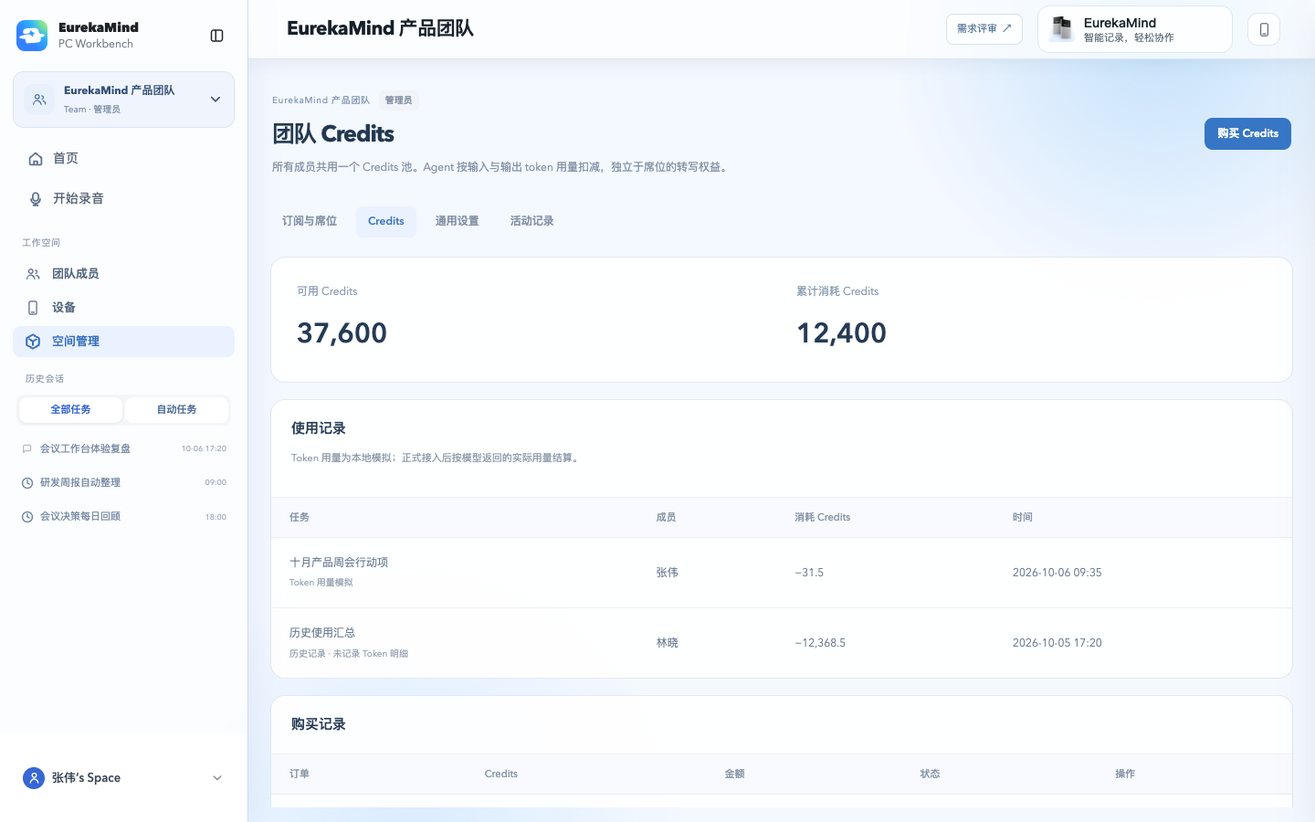
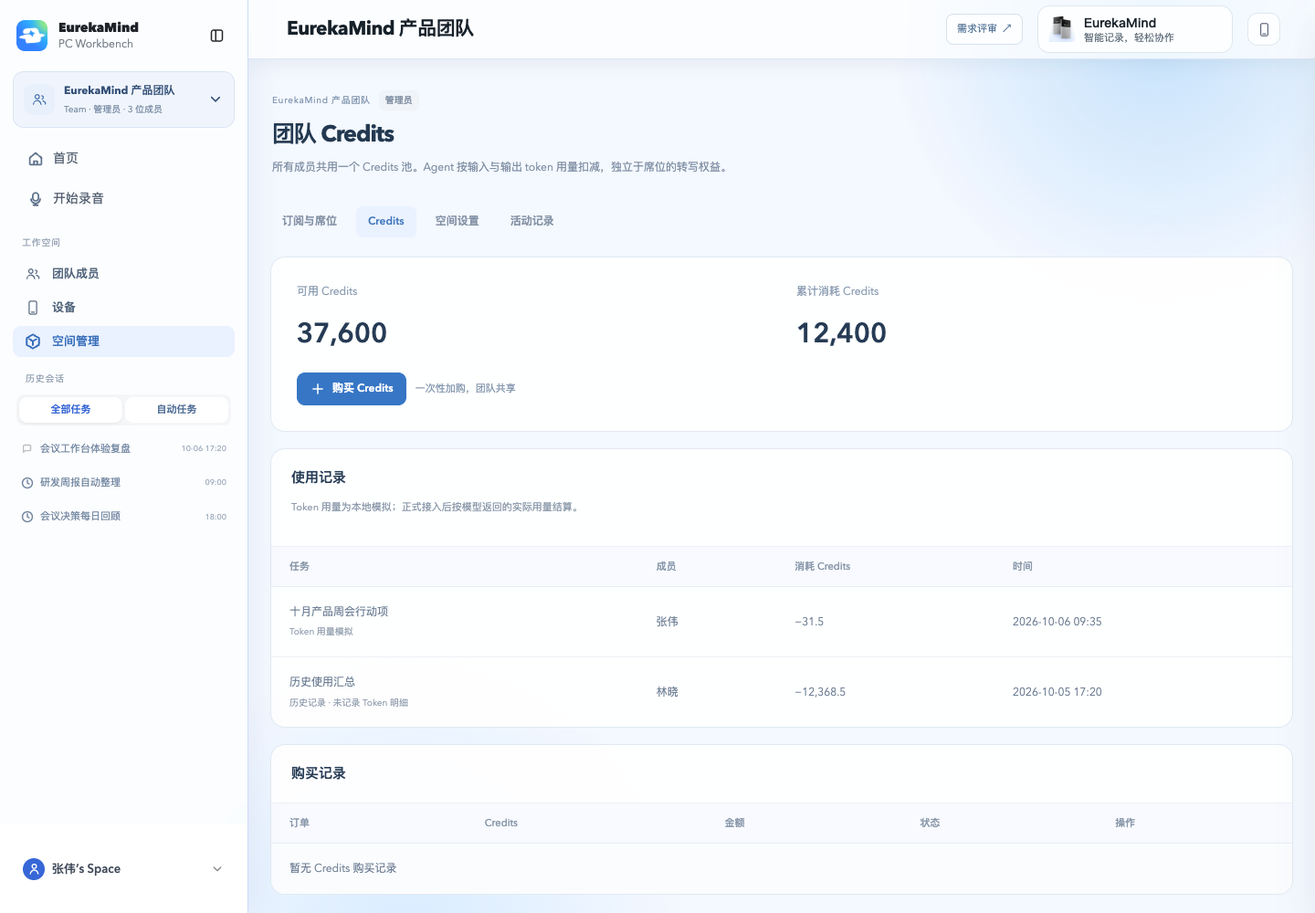
Improve team purchase entry visibility and responsive space settings

diff --git a/src/prototype/one-to-one-reference/assets/workspace-ui.js b/src/prototype/one-to-one-reference/assets/workspace-ui.js
@@ -127,7 +127,7 @@
   }
   function billing(){if(w().type==='personal')return personalBilling();
     if(!isAdmin())return heading('团队权益','你的权益由团队管理员统一管理。')+`<section class="ws-surface ws-perks"><h2>Team Unlimited</h2><p>你拥有独立的 Unlimited 转写权益，团队设备录音自动汇入团队会议。</p>${badge(w().status==='active'?'权益生效中':'当前只读',w().status==='active'?'green':'amber')}<p>账单、席位和续费请联系团队管理员。</p>${btn('leave','退出当前空间','danger')}</section>`;
-    const space=w();return heading('订阅与席位','团队统一付款，每位成员独立获得完整的 Unlimited 权益。')+managementTabs()+seatOrderNotice()+`<div class="ws-billing-grid"><section class="ws-surface ws-plan-current"><div class="ws-section-head"><h2>Team Unlimited</h2>${badge(space.status==='active'?(space.renew?'订阅生效中':'已取消自动续费'):'已到期 · 只读',space.status==='active'?'green':'amber')}</div><div class="ws-plan-amount">${money(M.price(space.cycle)*space.seats)}<small>/ ${space.cycle==='year'?'年':'月'}</small></div><p>${space.seats} 席位 × ${money(M.price(space.cycle))} / ${space.cycle==='year'?'年':'月'} · 演示价格</p><div class="ws-plan-divider"></div><div class="ws-seat-usage"><strong>${M.usedSeats(space)} <small>/ ${space.seats} 已分配</small></strong><span>${space.seats-M.usedSeats(space)} 个可用席位</span></div><progress max="${space.seats}" value="${M.usedSeats(space)}"></progress><div class="ws-actions">${btn('seats','管理席位','primary')}${btn('cycle','切换'+(space.cycle==='year'?'月付':'年付'))}</div>${space.pendingCycle?`<div class="ws-info">下周期改为 ${space.pendingCycle==='year'?'年付':'月付'} ${btn('cancel-cycle','撤销','link')}</div>`:''}${space.pendingSeats?`<div class="ws-info">下周期调整为 ${space.pendingSeats} 席位 ${btn('cancel-reduction','撤销','link')}</div>`:''}<p class="ws-muted">${space.renew?'下次续费':'权益保留至'}：${space.nextDate}</p></section><section class="ws-surface ws-billing-details"><h3>账单信息</h3><dl><dt>公司名称</dt><dd>${esc(space.billing.company)}</dd><dt>账单邮箱</dt><dd>${esc(space.billing.email)}</dd><dt>支付方式</dt><dd>${esc(space.billing.method)}</dd></dl>${btn('billing-info','编辑账单信息')}<div class="ws-plan-divider"></div><div class="ws-actions">${btn('renew',space.status!=='active'?'恢复订阅':space.renew?'取消自动续费':'恢复自动续费','link')}${btn('advance-cycle','模拟下一账期','link')}${btn('expire','模拟到期','link danger')}</div><small>支付与订单均为本地演示，不会真实扣款。</small></section></div><section class="ws-surface"><div class="ws-section-head"><h2>账单历史</h2></div><div class="ws-table-scroll"><table class="ws-table"><thead><tr><th>账单</th><th>项目</th><th>金额</th><th>状态</th><th>凭证</th></tr></thead><tbody>${space.invoices.map(i=>`<tr><td>${esc(i.id)}<small>${date(i.date)}</small></td><td>${esc(i.label)}</td><td>${money(i.amount)}</td><td>${badge(i.status,'green')}</td><td>${btn('invoice','下载','link',i.id)}</td></tr>`).join('')}</tbody></table></div></section>`;}
+    const space=w();return heading('订阅与席位','团队统一付款，每位成员独立获得完整的 Unlimited 权益。')+managementTabs()+seatOrderNotice()+`<div class="ws-billing-grid"><section class="ws-surface ws-plan-current"><div class="ws-section-head"><h2>Team Unlimited</h2>${badge(space.status==='active'?(space.renew?'订阅生效中':'已取消自动续费'):'已到期 · 只读',space.status==='active'?'green':'amber')}</div><div class="ws-plan-amount">${money(M.price(space.cycle)*space.seats)}<small>/ ${space.cycle==='year'?'年':'月'}</small></div><p>${space.seats} 席位 × ${money(M.price(space.cycle))} / ${space.cycle==='year'?'年':'月'} · 演示价格</p><div class="ws-plan-divider"></div><div class="ws-seat-usage"><strong>${M.usedSeats(space)} <small>/ ${space.seats} 已分配</small></strong><span>${space.seats-M.usedSeats(space)} 个可用席位</span></div><progress max="${space.seats}" value="${M.usedSeats(space)}"></progress><div class="ws-actions">${btn('add-seats',icon('plus')+'增加席位','primary','',space.seats>=50?'disabled title="已达50席位上限"':space.status!=='active'?'disabled title="请先恢复订阅"':'')}${btn('seats','管理席位')}${btn('cycle','切换'+(space.cycle==='year'?'月付':'年付'))}</div>${space.pendingCycle?`<div class="ws-info">下周期改为 ${space.pendingCycle==='year'?'年付':'月付'} ${btn('cancel-cycle','撤销','link')}</div>`:''}${space.pendingSeats?`<div class="ws-info">下周期调整为 ${space.pendingSeats} 席位 ${btn('cancel-reduction','撤销','link')}</div>`:''}<p class="ws-muted">${space.renew?'下次续费':'权益保留至'}：${space.nextDate}</p></section><section class="ws-surface ws-billing-details"><h3>账单信息</h3><dl><dt>公司名称</dt><dd>${esc(space.billing.company)}</dd><dt>账单邮箱</dt><dd>${esc(space.billing.email)}</dd><dt>支付方式</dt><dd>${esc(space.billing.method)}</dd></dl>${btn('billing-info','编辑账单信息')}<div class="ws-plan-divider"></div><div class="ws-actions">${btn('renew',space.status!=='active'?'恢复订阅':space.renew?'取消自动续费':'恢复自动续费','link')}${btn('advance-cycle','模拟下一账期','link')}${btn('expire','模拟到期','link danger')}</div><small>支付与订单均为本地演示，不会真实扣款。</small></section></div><section class="ws-surface"><div class="ws-section-head"><h2>账单历史</h2></div><div class="ws-table-scroll"><table class="ws-table"><thead><tr><th>账单</th><th>项目</th><th>金额</th><th>状态</th><th>凭证</th></tr></thead><tbody>${space.invoices.map(i=>`<tr><td>${esc(i.id)}<small>${date(i.date)}</small></td><td>${esc(i.label)}</td><td>${money(i.amount)}</td><td>${badge(i.status,'green')}</td><td>${btn('invoice','下载','link',i.id)}</td></tr>`).join('')}</tbody></table></div></section>`;}
   const PS=window.PersonalSubscriptionModel;
   let personalCycle='year';
   const dollars=v=>'$'+Number(v).toFixed(2);
@@ -142,9 +142,9 @@
     const order=(w().seatOrders||[]).find(o=>['pending','failed'].includes(o.status));
     return order?`<div class="ws-seat-pending" role="status"><div><strong>${order.status==='failed'?'加席支付未完成':'有一笔待支付的加席订单'}</strong><span>增加 ${order.added} 席位 · ${money(order.amount)} · 当前席位尚未变更</span></div><div class="ws-actions">${btn('seat-checkout','继续支付','',order.id)}${btn('seat-cancel','取消订单','link',order.id)}</div></div>`:'';
   }
-  function manageSeats(count=w().pendingSeats??w().seats){
+  function manageSeats(count=w().pendingSeats??w().seats,increaseOnly=false){
     M.govern(w(),actor);M.writable(w());
-    modal('管理席位',`${field('调整后的总席位数','seats',count,'number',`required min="${Math.max(2,M.usedSeats(w()))}" max="50" step="1"`)}<p>当前已购 ${w().seats} 席位，已分配 ${M.usedSeats(w())} 席位（含待接受邀请）。</p><div id="ws-seat-estimate" class="ws-seat-estimate" aria-live="polite"></div><p class="ws-muted">新增席位支付成功后生效；减少席位在下一账期生效。</p>`,btn('close-dialog','取消')+submit('下一步'),'seats');updateSeatEstimate();
+    modal(increaseOnly?'增加席位':'管理席位',`${field('调整后的总席位数','seats',count,'number',`required min="${increaseOnly?w().seats+1:Math.max(2,M.usedSeats(w()))}" max="50" step="1"`)}<p>当前已购 ${w().seats} 席位，已分配 ${M.usedSeats(w())} 席位（含待接受邀请）。</p><div id="ws-seat-estimate" class="ws-seat-estimate" aria-live="polite"></div><p class="ws-muted">新增席位支付成功后生效；减少席位在下一账期生效。</p>`,btn('close-dialog','取消')+submit('下一步'),'seats');updateSeatEstimate();
   }
   function updateSeatEstimate(){
     const input=$('[data-ws-form=seats] [name=seats]',dialog),estimate=$('#ws-seat-estimate');if(!input||!estimate)return;
@@ -178,11 +178,11 @@
   }
   function credits(){
     M.govern(w(),actor);const c=w().credits,orders=w().creditOrders||[],pending=orders.find(o=>['pending','failed'].includes(o.status));
-    return heading('团队 Credits','所有成员共用一个 Credits 池。Agent 按输入与输出 token 用量扣减，独立于席位的转写权益。',btn('topup','购买 Credits','primary'))+managementTabs()+
-      `${pending?`<div class="ws-seat-pending"><div><strong>${pending.status==='failed'?'Credits 支付未完成':'有一笔待支付的 Credits 订单'}</strong><span>${creditNumber(pending.credits)} Credits · ${money(pending.amount)}</span></div><div class="ws-actions">${creditOrderActions(pending)}</div></div>`:''}<section class="ws-surface ws-credit-summary"><div><span>可用 Credits</span><strong>${creditNumber(M.creditBalance(w()))}</strong></div><div><span>累计消耗 Credits</span><strong>${creditNumber(c.used)}</strong></div></section><section class="ws-surface"><div class="ws-section-head"><div><h2>使用记录</h2><p class="ws-muted">Token 用量为本地模拟；正式接入后按模型返回的实际用量结算。</p></div></div><div class="ws-table-scroll"><table class="ws-table ws-credit-usage"><thead><tr><th>任务</th><th>成员</th><th>消耗 Credits</th><th>时间</th></tr></thead><tbody>${c.logs.map(l=>`<tr><td>${esc(l.task)}<small>${l.inputTokens!=null?'Token 用量模拟':'历史记录 · 未记录 Token 明细'}</small></td><td>${esc(userName(l.user))}</td><td>−${creditNumber(l.amount)}</td><td>${date(l.time)}</td></tr>`).join('')||'<tr><td colspan="4">暂无使用记录</td></tr>'}</tbody></table></div></section><section class="ws-surface"><div class="ws-section-head"><h2>购买记录</h2></div><div class="ws-table-scroll"><table class="ws-table ws-credit-orders"><thead><tr><th>订单</th><th>Credits</th><th>金额</th><th>状态</th><th>操作</th></tr></thead><tbody>${orders.map(o=>`<tr><td>${esc(o.id)}<small>${date(o.created)}</small></td><td>${creditNumber(o.credits)}</td><td>${money(o.amount)}</td><td>${badge({pending:'待支付',failed:'支付失败',paid:'已到账',cancelled:'已取消'}[o.status],o.status==='paid'?'green':'')}</td><td><div class="ws-actions">${creditOrderActions(o)}</div></td></tr>`).join('')||'<tr><td colspan="5">暂无 Credits 购买记录</td></tr>'}</tbody></table></div></section>`;
+    return heading('团队 Credits','所有成员共用一个 Credits 池。Agent 按输入与输出 token 用量扣减，独立于席位的转写权益。')+managementTabs()+
+      `${pending?`<div class="ws-seat-pending"><div><strong>${pending.status==='failed'?'Credits 支付未完成':'有一笔待支付的 Credits 订单'}</strong><span>${creditNumber(pending.credits)} Credits · ${money(pending.amount)}</span></div><div class="ws-actions">${creditOrderActions(pending)}</div></div>`:''}<section class="ws-surface ws-credit-summary"><div><span>可用 Credits</span><strong>${creditNumber(M.creditBalance(w()))}</strong><div class="ws-credit-balance-actions">${btn('topup',icon('plus')+'购买 Credits','primary')}<small>一次性加购，团队共享</small></div></div><div><span>累计消耗 Credits</span><strong>${creditNumber(c.used)}</strong></div></section><section class="ws-surface"><div class="ws-section-head"><div><h2>使用记录</h2><p class="ws-muted">Token 用量为本地模拟；正式接入后按模型返回的实际用量结算。</p></div></div><div class="ws-table-scroll"><table class="ws-table ws-credit-usage"><thead><tr><th>任务</th><th>成员</th><th>消耗 Credits</th><th>时间</th></tr></thead><tbody>${c.logs.map(l=>`<tr><td>${esc(l.task)}<small>${l.inputTokens!=null?'Token 用量模拟':'历史记录 · 未记录 Token 明细'}</small></td><td>${esc(userName(l.user))}</td><td>−${creditNumber(l.amount)}</td><td>${date(l.time)}</td></tr>`).join('')||'<tr><td colspan="4">暂无使用记录</td></tr>'}</tbody></table></div></section><section class="ws-surface"><div class="ws-section-head"><h2>购买记录</h2></div><div class="ws-table-scroll"><table class="ws-table ws-credit-orders"><thead><tr><th>订单</th><th>Credits</th><th>金额</th><th>状态</th><th>操作</th></tr></thead><tbody>${orders.map(o=>`<tr><td>${esc(o.id)}<small>${date(o.created)}</small></td><td>${creditNumber(o.credits)}</td><td>${money(o.amount)}</td><td>${badge({pending:'待支付',failed:'支付失败',paid:'已到账',cancelled:'已取消'}[o.status],o.status==='paid'?'green':'')}</td><td><div class="ws-actions">${creditOrderActions(o)}</div></td></tr>`).join('')||'<tr><td colspan="5">暂无 Credits 购买记录</td></tr>'}</tbody></table></div></section>`;
   }
 
-  function settings(){M.govern(w(),actor);return heading('空间设置','名称、成员权限与隐私设置仅作用于当前工作空间。')+managementTabs()+`<form class="ws-surface ws-settings-form" data-ws-form="settings">${field('工作空间名称','name',w().name,'text','required maxlength="40"')}${field('公司所在地区','country',w().country,'text','disabled')}<p class="ws-muted">地区在创建时确定，后续保持不变。</p><div class="ws-info">${icon('users')} 团队设备录音自动进入团队会议，当前空间成员可查看；个人空间的数据保持隔离。</div><p class="ws-form-error" role="alert"></p><button class="ws-btn primary" type="submit">保存设置</button></form><section class="ws-surface ws-settings-form"><h3>退出工作空间</h3><p>退出后将无法访问此空间。若你是唯一管理员，需要先指定另一位管理员。</p>${btn('leave','退出当前空间','danger')}</section>`;}
+  function settings(){M.govern(w(),actor);return heading('空间设置','名称、成员权限与隐私设置仅作用于当前工作空间。')+managementTabs()+`<form class="ws-surface ws-settings-form" data-ws-form="settings"><div class="ws-settings-fields">${field('工作空间名称','name',w().name,'text','required maxlength="40"')}${field('公司所在地区','country',w().country,'text','disabled')}</div><p class="ws-muted">地区在创建时确定，后续保持不变。</p><div class="ws-info">${icon('users')} 团队设备录音自动进入团队会议，当前空间成员可查看；个人空间的数据保持隔离。</div><p class="ws-form-error" role="alert"></p><button class="ws-btn primary" type="submit">保存设置</button></form><section class="ws-surface ws-settings-form ws-settings-leave"><div><h3>退出工作空间</h3><p>退出后将无法访问此空间。若你是唯一管理员，需要先指定另一位管理员。</p></div>${btn('leave','退出当前空间','danger')}</section>`;}
   function audit(){M.govern(w(),actor);return heading('活动记录','只记录空间管理操作，不向管理员暴露成员私有文件内容。')+managementTabs()+`<section class="ws-surface"><div class="ws-list">${w().audit.filter(l=>!l.action.match(/文件|私有/)).map(l=>`<div class="ws-list-row"><div><strong>${esc(l.action)}</strong><small>${esc(l.actor)}</small></div><time>${date(l.time)}</time></div>`).join('')||empty('暂无管理活动','创建、邀请、席位与设备变更会显示在这里。')}</div></section>`;}
   function contacts(){return heading('团队联系人','当前工作空间的合作关系与跟进记录。',btn('contact-add','添加联系人','primary'))+`<div class="ws-contact-grid">${(w().contacts||[]).map(c=>`<button class="ws-contact-card" data-ws-action="contact" data-value="${esc(c.id)}"><span class="ws-mini-avatar">${esc(c.name[0])}</span><h3>${esc(c.name)}</h3><small>${esc(c.company)} · ${esc(c.role)}</small><p>${esc(c.summary)}</p><span class="ws-link">查看与跟进 ↗</span></button>`).join('')||empty('暂时没有联系人','添加合作伙伴，建立当前团队独立的关系记录。')}</div>`;}
   function agent(){const thread=activeHistoryId?M.history(w(),actor).find(t=>t.id===activeHistoryId):null;const insight=activeInsightId?M.insights(w(),actor).items.find(i=>i.id===activeInsightId):null;return `<aside class="ws-agent" aria-label="Ask Agent"><header><div><span class="ws-agent-mark">${icon('spark')}</span><div><h2>Ask Agent</h2><p>${esc(w().name)}</p></div></div><div class="agent-head-actions">${btn('agent-new',icon('new-task'),'agent-new-task','','aria-label="新建任务" title="新建任务"')}${btn('agent-close',icon('x'),'ws-icon-button','','aria-label="收起 Agent"')}</div></header><div class="ws-agent-scroll"><span class="ws-eyebrow">仅引用当前空间已授权的内容</span>${thread?`<div class="ws-agent-history-context"><span class="ws-eyebrow">历史会话</span><h3>${esc(thread.title||thread.prompt)}</h3><p><time>${date(thread.time)}</time></p></div>`:insight?`<div class="ws-agent-insight-context"><span>正在讨论</span><h3>${esc(insight.title)}</h3><p>${esc(insight.description)}</p><div class="ws-agent-insight-sources">${insight.sources.map(e=>btn('file',icon('mic')+esc(e.title),'link',e.fileId)).join('')}</div></div>`:`<h3>${selected?'继续这场会议的工作':'让团队讨论有下一步'}</h3><p>整理关键结论、拆解行动项，或准备下一次沟通。</p><div class="ws-agent-prompts">${['整理待推进的行动项','为下次会议准备简报'].map(t=>btn('prompt',t,'',t)).join('')}</div>`}${(thread?M.conversation(w(),thread.id,actor):freshAgentTask?[]:M.history(w(),actor).filter(t=>!t.demo&&t.user===actor&&(!insight||t.prompt.includes(insight.title))&&(!selected||(t.files||[]).includes(selected))).slice(0,4).reverse()).map(t=>`<div class="ws-chat-user">${esc(t.prompt)}</div><div class="ws-chat-answer">${esc(t.answer)}</div>${t.usage?`<div class="ws-agent-usage">输入 ${creditNumber(t.usage.inputTokens)} / 输出 ${creditNumber(t.usage.outputTokens)} tokens · ${creditNumber(t.usage.cost)} Credits（模拟）</div>`:''}`).join('')}${answer?`<div class="ws-chat-answer" role="status">${esc(answer)}</div>`:''}</div><form class="ws-composer" data-ws-form="ask"><textarea name="question" aria-label="向团队 Agent 提问" aria-describedby="ws-composer-hint" placeholder="输入问题，按 Enter 发送…">${esc(draft)}</textarea><div class="ws-composer-tools">${btn('agent-sources',icon('book'),'ws-tool'+(agentOptions.fileIds.length||selected||thread?' selected':''),'','aria-label="引用资料" title="引用资料"')}${btn('agent-web',icon('globe'),'ws-tool'+(agentOptions.web?' selected':''),'',`aria-label="联网搜索" aria-pressed="${agentOptions.web}" title="联网搜索（模拟）"`)}<label class="ws-agent-mode">${icon('clock')}<select name="mode" aria-label="回答模式"><option value="quick" ${agentOptions.mode==='quick'?'selected':''}>快速</option><option value="deep" ${agentOptions.mode==='deep'?'selected':''}>深度思考</option></select></label><button class="ws-btn primary" type="submit" aria-label="发送问题" ${draft.trim()?'':'disabled'}>${icon('send')}</button></div><small id="ws-composer-hint">${agentOptions.fileIds.length?'已引用 '+agentOptions.fileIds.length+' 场会议':thread?'已引用当前历史会话':selected?'已引用当前会议':'基于当前工作空间'}${agentOptions.appData?' · 应用数据':''}${agentOptions.web?' · 联网模拟':''}</small><div class="ws-composer-caption"><small>Enter 发送 / Shift+Enter 换行</small><small>按 Token 用量结算 · 本地模拟</small></div><p class="ws-form-error" role="alert"></p></form></aside>`;}
@@ -261,6 +261,7 @@
     if(name==='member-resend'||name==='member-accept'){mutate(()=>M.memberAction(data,w(),value,name==='member-resend'?'resend':'accept',null,actor));render();toast(name==='member-resend'?'模拟邀请已重发':'成员已模拟接受邀请');return;}
     if(name==='member-role'){M.govern(w(),actor);const m=w().members.find(m=>m.id===value);modal('调整成员角色',`<p>${esc(m.name)} · ${esc(m.email)}</p><input type="hidden" name="memberId" value="${value}">${select('角色','role',[['member','成员'],['admin','管理员']],m.role)}<p class="ws-muted">管理员可以管理账单、成员和设备，但不能访问其他人的私有文件。</p>`,btn('close-dialog','取消')+submit('保存角色'),'role');return;}
     if(name==='member-remove'){confirm('移除此成员？','将撤销此成员的空间访问权限并释放席位，设备绑定会解除。订阅的席位数量和账单不会自动减少。',()=>{mutate(()=>M.memberAction(data,w(),value,'remove',null,actor));render();toast('成员已移除，席位已释放');});return;}
+    if(name==='add-seats'){if(w().seats>=50)throw new Error('已达 50 席位上限');return manageSeats(w().seats+1,true);}
     if(name==='seats')return manageSeats();
     if(name==='seat-checkout')return seatCheckout(value);
     if(name==='seat-back'){const order=M.getSeatOrder(w(),value,actor);return manageSeats(order.targetSeats);}

diff --git a/tests/e2e/team-management-entry.spec.ts b/tests/e2e/team-management-entry.spec.ts
@@ -1,0 +1,16 @@
+import {test,expect,Page} from '@playwright/test';
+test.use({channel:process.env.PLAYWRIGHT_CHANNEL||undefined,viewport:{width:1440,height:1000}});
+const url='/prototype/one-to-one-reference/team-only-app.html?edition=personal&personal=1';
+const action=(p:Page,n:string)=>p.locator(`[data-ws-action=${n}]`).filter({visible:true}).first();
+const tab=(p:Page,n:string)=>p.locator(`.ws-tabs [data-value=${n}]`);
+async function capture(p:Page,name:string){if(process.env.PRD_CAPTURE){await expect(p.locator('#ws-toast')).toBeHidden();await p.mouse.move(700,950);await p.screenshot({path:`src/prototype/prd/images/${name}.png`});}}
+async function seats(p:Page){return p.evaluate(()=>JSON.parse(localStorage.getItem('eureka:workspaces:v2')!).spaces.find((s:{id:string})=>s.id==='team-eureka').seats);}
+test.beforeEach(async({page})=>{await page.goto(url);await page.locator('#ws-switcher').click();await page.locator('#ws-menu [data-value=team-eureka]').click();await page.locator('#ws-team-nav [data-value=billing]').click();});
+test('visible add-seats entry opens a positive quote and payment changes capacity only on success',async({page})=>{
+ const add=page.locator('.ws-plan-current [data-ws-action=add-seats]');await expect(add).toBeInViewport();await expect(add).toHaveText('增加席位');await capture(page,'billing');await add.click();await expect(page.locator('#ws-dialog h2')).toHaveText('增加席位');await expect(page.locator('#ws-dialog [name=seats]')).toHaveValue('7');await expect(page.locator('#ws-dialog [name=seats]')).toHaveAttribute('min','7');await expect(page.locator('#ws-seat-estimate')).toContainText('¥1,908.00');await capture(page,'seat-add');await page.locator('#ws-dialog [name=seats]').fill('6');await page.locator('#ws-dialog button[type=submit]').click();await expect(page.locator('#ws-dialog h2')).toHaveText('增加席位');await page.locator('#ws-dialog [name=seats]').fill('7');await page.locator('#ws-dialog button[type=submit]').click();await expect(page.locator('#ws-dialog h2')).toHaveText('确认加席订单');expect(await seats(page)).toBe(6);await action(page,'seat-pay-fail').click();expect(await seats(page)).toBe(6);await page.locator('#ws-dialog button[type=submit]').click();expect(await seats(page)).toBe(7);await action(page,'close-dialog').click();await page.reload();await page.locator('#ws-team-nav [data-value=billing]').click();expect(await seats(page)).toBe(7);
+});
+test('Credits purchase sits under balance; workspace settings use full available width on desktop and mobile',async({page})=>{
+ await tab(page,'credits').click();await expect(page.locator('.ws-page-head [data-ws-action=topup]')).toHaveCount(0);await expect(page.locator('.ws-credit-summary [data-ws-action=topup]')).toBeInViewport();await capture(page,'credits');await action(page,'topup').click();await expect(page.locator('.ws-credit-packs')).toBeVisible();await action(page,'close-dialog').click();await tab(page,'settings').click();await capture(page,'team-settings');
+ for(const width of [1920,1440,1024,390]){await page.setViewportSize({width,height:1000});const cards=page.locator('.ws-settings-form');for(const card of await cards.all()){expect(await card.evaluate(el=>el.scrollWidth<=el.clientWidth)).toBeTruthy();const box=(await card.boundingBox())!;const nav=(await page.locator('.ws-tabs').boundingBox())!;expect(Math.abs(box.x-nav.x)).toBeLessThan(2);expect(Math.abs(box.width-nav.width)).toBeLessThan(2);}expect(await page.evaluate(()=>document.documentElement.scrollWidth)).toBeLessThanOrEqual(width+1);await page.locator('[data-ws-form=settings] [name=name]').fill('自适应空间设置');await page.locator('[data-ws-form=settings] button[type=submit]').click();await expect(page.locator('#ws-switcher')).toContainText('自适应空间设置');}
+ await tab(page,'credits').click();await expect(page.locator('.ws-credit-summary [data-ws-action=topup]')).toBeVisible();await tab(page,'billing').click();await expect(page.locator('[data-ws-action=add-seats]')).toBeVisible();
+});

diff --git a/src/prototype/one-to-one-reference/assets/workspace-ui.css b/src/prototype/one-to-one-reference/assets/workspace-ui.css
@@ -112,3 +112,14 @@ body[data-ws-type=team] [data-contacts-entry],body[data-ws-type=team] .sidebar-q
 .ps-plan-options{order:1;width:100%;max-width:760px;gap:18px;margin:26px auto 18px}.ps-plan-option{padding:20px 24px;border-radius:14px}.ps-plan-option h3{font-size:16px;margin-bottom:10px}.ps-plan-option>strong{font-size:30px}.ps-plan-option dl{display:grid;grid-template-columns:1fr auto;align-items:center;gap:10px;margin-top:20px}.ps-plan-option dt{margin:0;font-size:11px}.ps-plan-option dd{font-size:12px;padding:5px 8px}.ps-saving{font-size:11px;padding:5px 10px}
 .ps-plan-footer{order:2;gap:6px}.ps-plan-footer .primary{padding:10px;min-width:240px}.ps-plan-details{order:3;width:100%;max-width:760px;margin:14px auto 0;border-top:1px solid #e8edf5;padding-top:12px}.ps-plan-details h3{margin:0 0 6px;font-size:13px}.ps-plan-details p{margin:4px 0;font-size:11px;line-height:1.6}
 @media(max-width:600px){.ps-account{padding:18px;gap:14px}.ps-plans{padding:18px}.ps-plan-options{grid-template-columns:1fr;gap:22px}.ps-plan-option{padding:18px}.ps-plan-footer .primary{min-width:0;width:100%}}
+
+/* Place purchases beside the balances they change; settings span the content area. */
+.ws-credit-balance-actions{display:flex;align-items:center;flex-wrap:wrap;gap:10px;margin-top:18px}
+.ws-credit-balance-actions small{color:#8497af;font-size:11px}
+.ws-settings-form{width:100%;max-width:none;box-sizing:border-box;min-width:0}
+.ws-settings-fields{display:grid;grid-template-columns:repeat(2,minmax(0,1fr));gap:24px}
+.ws-settings-fields .ws-field{min-width:0;margin-bottom:0}.ws-settings-fields input{min-width:0;box-sizing:border-box}
+.ws-settings-leave{display:flex;align-items:center;justify-content:space-between;gap:24px}
+.ws-settings-leave h3{font-size:16px;margin:0 0 8px}.ws-settings-leave p{font-size:12px;line-height:1.7;color:#92a0b0;margin:0}
+.ws-settings-leave>.ws-btn{flex-shrink:0}
+@media(max-width:800px){.ws-settings-fields{grid-template-columns:1fr;gap:16px}.ws-settings-leave{flex-direction:column;align-items:flex-start;gap:16px}}

diff --git a/src/prototype/one-to-one-reference/team-only-app.html b/src/prototype/one-to-one-reference/team-only-app.html
@@ -5332,10 +5332,10 @@
   <script src="assets/workspace-sidebar.js"></script>
   <script src="assets/meeting-detail.js?v=10"></script>
   <script src="assets/meeting-filters.js?v=2"></script>
-  <link rel="stylesheet" href="assets/workspace-ui.css?v=14" />
+  <link rel="stylesheet" href="assets/workspace-ui.css?v=15" />
   <script src="assets/workspace-model.js?v=12"></script>
   <script src="assets/personal-subscription-model.js?v=1"></script>
-  <script src="assets/workspace-ui.js?v=20"></script>
+  <script src="assets/workspace-ui.js?v=21"></script>
 <link rel="stylesheet" href="assets/recording-upload.css?v=1">
 <script src="assets/recording-upload.js?v=1"></script>
 <link rel="stylesheet" href="assets/personal-assets.css?v=4">

diff --git a/README.md b/README.md
@@ -95,3 +95,5 @@ EurekaMind 独立采用 Team Credits 共享池：所有成员的 Agent 会话及
 日程与待办继续读取 `PersonalAssets` 的同一记录，闪念中显示摘要、来源和业务时间，点击条目弹窗查看，行内编辑直接弹窗，只有「详情」进入原完整详情；返回保留筛选。待办可在行首直接勾选完成 / 重新打开。闪念工具栏撤去新建日程，「记录闪念」打开下载 App / 购买设备引导弹窗，另保留跳转日历入口；Ask Agent 引用当前筛选记录，沿用本地模拟边界。测试：`thoughts-model.cjs`、`thoughts.spec.ts`。
 
 个人版与团队版的「我的 → 个人设置」共用账户、语言、自动摘要与声纹功能页，使用紧凑字号和间距。偏好随同一账号保留，团队普通成员也可修改；关闭返回当前空间首页。空间管理的「通用设置」改为「空间设置」，继续仅管理员管理当前团队属性。
+
+团队订阅的席位用量下方提供主按钮「增加席位」，默认新增一席并沿用确认费用与模拟支付流程；「管理席位」保留减席等操作。Credits 的购买按钮移至可用余额下方。空间设置卡片随主内容区展开，名称/地区宽屏双列、窄屏单列，退出说明与按钮同步自适应。入口和响应式回归：`tests/e2e/team-management-entry.spec.ts`。
